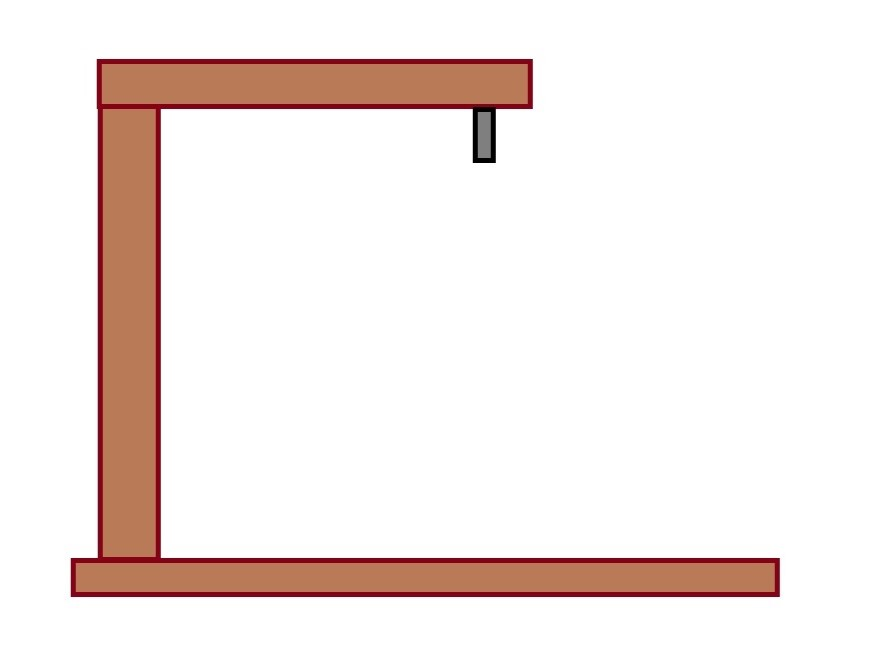
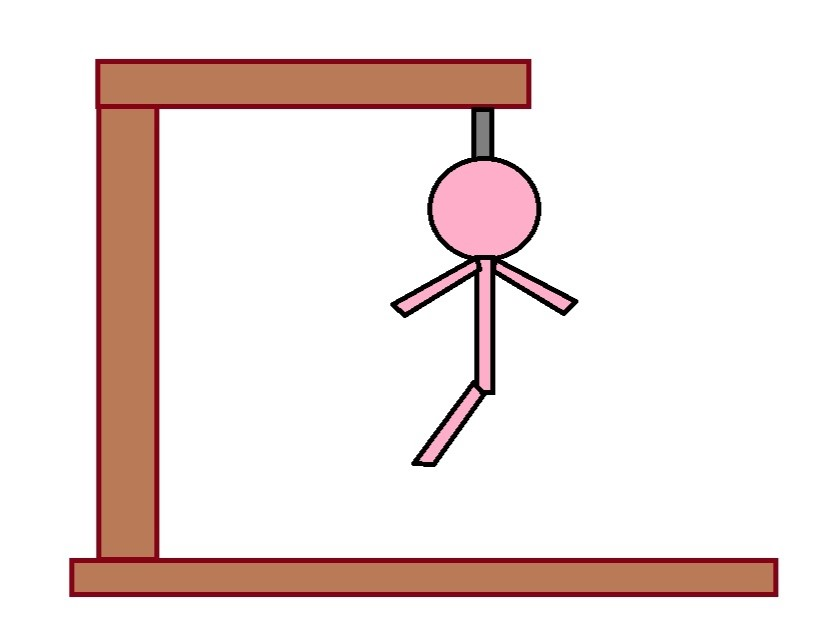
19/10

Changed region(s): [[0.0621, 0.0906, 0.9308, 0.9666]]

diff --git a/Ahorcado/js/ahorcado.js b/Ahorcado/js/ahorcado.js
@@ -3,70 +3,80 @@ onload = ocultarPalabra;
 
 //DECLARAMOS LAS VARIABLE NECESARIAS
 let letra;
-let palabras = ["CAMION", "LUZ", "PANTALLA", "CONEJO"];
-let palabraAlt = palabras[Math.floor(Math.random() * 4)];
-let contadorVidas = 6;
-let palabraOculta = [];
+let palabras = ["CAMION", "LUZ", "PANTALLA", "CONEJO"]; //Array de palabras
+let palabraAlt = palabras[Math.floor(Math.random() * 4)]; //Palabra aleatoria del array
+let contadorVidas = 6; //Contador para las vidas
+let palabraOculta = []; //Variable para guardar la palabra aleatoria en forma de "_"
 
 //CREAMOS LA FUNCION PARA COMPARAR LA LETRA SELECCIONADA CON LA PALABRA EN SI
 function comparar(letra) {
-    let boton = document.getElementById(letra);
-    if (contadorVidas >= 0) {
-        if (palabraAlt.match(letra)) {
-            boton.disabled = true;
+
+    let boton = document.getElementById(letra);  //Guardo el boton clickado en una variable
+
+    if (contadorVidas >= 0) { //Si tienes vidas compararemos la letra
+        if (palabraAlt.match(letra)) { //Si la letra esta en la palabra
+            boton.disabled = true; //Desabilita el boton seleccionado
             boton.style.color = "white";
             boton.style.background = "green";
-            mostrarLetra(letra);
-            console.log(palabraOculta);
-            victoria();
-        } else {
-            boton.disabled = true;
+            mostrarLetra(letra); //Llamo al metodo para mostrar la letra en la palabra oculta
+            victoria(); //Compruebo si ya ha ganado o le quedan mas letras por adivinar
+        } else { //Si no esta la letra en la palabra
+            boton.disabled = true; 
             boton.style.color = "white";
             boton.style.background = "red";
-            contadorVidas--;
-            derrota();
-            seleccionarIMG();
+            contadorVidas--; //Quitamos una vida 
+            seleccionarIMG(); //Llamo al metodo para cambiar la imagen del ahoracado
+            derrota(); //Compruebo si ya ha perdido
         }
     }
 }
 
-function mostrarLetra(letra) {
-    for (let i = 0; i < palabraAlt.length; i++) {
-        if (palabraAlt[i] == letra) {
-            palabraOculta[i] = letra;
+function mostrarLetra(letra) { //Metodo para mostar las letras
+    for (let i = 0; i < palabraAlt.length; i++) { //Bucle para recorrer la palabra
+        if (palabraAlt[i] == letra) { //Si la letra coincide con la letra en la posicion de la palabra
+            palabraOculta[i] = letra; //cambio la "_" por la letra
         }
     }
-    document.getElementById("palabraOculta").innerHTML = palabraOculta.join(" ");
+    document.getElementById("palabraOculta").innerHTML = palabraOculta.join(" "); //Mostramos como quedaria la palabra oculta
 }
 
-function ocultarPalabra() {
-    for (let i = 0; i < palabraAlt.length; i++) {
-        palabraOculta[i] = "_"
+function ocultarPalabra() { //Metodo para ocultar palabra
+    for (let i = 0; i < palabraAlt.length; i++) { //Bucle para recorrer la palabra
+        palabraOculta[i] = "_" //Por cada caracter en la palabra introduzco una posicion en el array de palabra oculta
     }
-    document.getElementById("palabraOculta").innerHTML = palabraOculta.join(" ");
+    document.getElementById("palabraOculta").innerHTML = palabraOculta.join(" "); //Muestro la palabra oculta
 }
 
-function desactivarBotones(){
+function desactivarBotones(){ //Metodo para desactivar los botones
     let botones = document.querySelectorAll(".boton");
     botones.forEach(b => {
         b.disabled = true;
     })
+   /* for(b of document.getElementsByClassName("boton")){
+        b.disabled = true;
+    }
+    */
 }
 
-function victoria(){
-    if(!palabraOculta.includes("_")){
-        desactivarBotones();
-        document.getElementById("palabraOculta").innerHTML += " OLE OLE HAS GANDO"
+function victoria(){ //Metodo para comprobar victoria
+    if(!palabraOculta.includes("_")){ //Si la palabra no incluye "_"
+        desactivarBotones(); //Desactivamos todos los botones
+        document.getElementById("final").innerHTML += " OLE OLE HAS GANDO" //Mensaje de victoria
     }
 }
 
-function derrota(){
-    if (contadorVidas < 1) {
-        desactivarBotones();
-        document.getElementById("palabraOculta").innerHTML += " OH OH TE HAS QUEDADO SIN VIDAS!"
+function derrota(){ //Metodo para comprobar derrota
+    if (contadorVidas < 1) { //Si tienes menos de 1 vida
+        desactivarBotones(); //desactivamos los botones
+        document.getElementById("final").innerHTML += "\nOH OH TE HAS QUEDADO SIN VIDAS!" //Mensaje de derrota
     }
 }
 
-function seleccionarIMG(){
-    document.getElementById("imagen").src = "img/ahorcado"+contadorVidas;
+function seleccionarIMG(){ //Metodo para cambiar imagen
+    document.getElementById("imagen").src = "img/ahorcado"+contadorVidas+".jpg"; //Cambiamos el atributo "src" de
+    // la imagen con una nueva ruta
+}
+
+function nuevoJuego(){ //Metodo de nuevo juego del onClick()
+    location.reload(); //Recargamos la pagina
 }

diff --git a/POO/js/poo.js b/POO/js/poo.js
@@ -1,0 +1,21 @@
+//Creacion de un objeto siempre con const
+const persona = {
+    //Una vez dentro ya se pueden declarar lets
+    nombre: "Federico",
+    apellidos: "Garcia Lorca",
+    edad: 55,
+    nacionalidad: "España",
+    datosCompletos: function(){
+        console.log(this.nombre+ " - " + this.apellidos + " - "+ this.edad)
+    }
+}
+
+console.log(persona.nombre);
+
+//Se puede camviar el valor de los atributos del objeto
+persona.nombre = "El Fede";
+console.log(persona.nombre);
+
+
+persona.apodo = "Fer"
+console.log(persona.apodo)

diff --git a/Ahorcado/ahorcado.css b/Ahorcado/ahorcado.css
@@ -11,12 +11,12 @@
 }
 
 .boton {
-    font-size: 20px;
+    font-size: 15px;
     flex-grow: 1;
     flex-basis: 100;
     margin: 0.2em 1em;
-    width: 100px;
-    height: 100px;
+    width: 70px;
+    height: 70px;
     background-color: blanchedalmond;
     border-radius: 10px;
 }
@@ -27,6 +27,14 @@
 }
 
 #palabraOculta{
-    font-size: 8em;
+    font-size: 4em;
     letter-spacing: 10px;
+}
+
+#nuevoJuego{
+    margin-top: 50px;
+}
+
+#final{
+    font-size: 20px;
 }

diff --git a/Ahorcado/ahorcado.html b/Ahorcado/ahorcado.html
@@ -43,8 +43,12 @@
         </div>
 
         <div class="col">
-            <img id="imagen" src="img/inicio.jpg">
+            <img id="imagen" src="img/ahorcado6.jpg">
             <p id="palabraOculta"></p>
+        </div>
+        <div class="col">
+            <button id="nuevoJuego" onclick=nuevoJuego()>Nuevo Juego</button>
+            <p id="final"></p>
         </div>
     </div>
 </body>

diff --git a/POO/poo.html b/POO/poo.html
@@ -1,0 +1,12 @@
+<!DOCTYPE html>
+<html lang="en">
+<head>
+    <meta charset="UTF-8">
+    <meta name="viewport" content="width=device-width, initial-scale=1.0">
+    <title>Poo</title>
+    <script type="text/javascript" src="js/poo.js"></script>
+</head>
+<body>
+    
+</body>
+</html>
